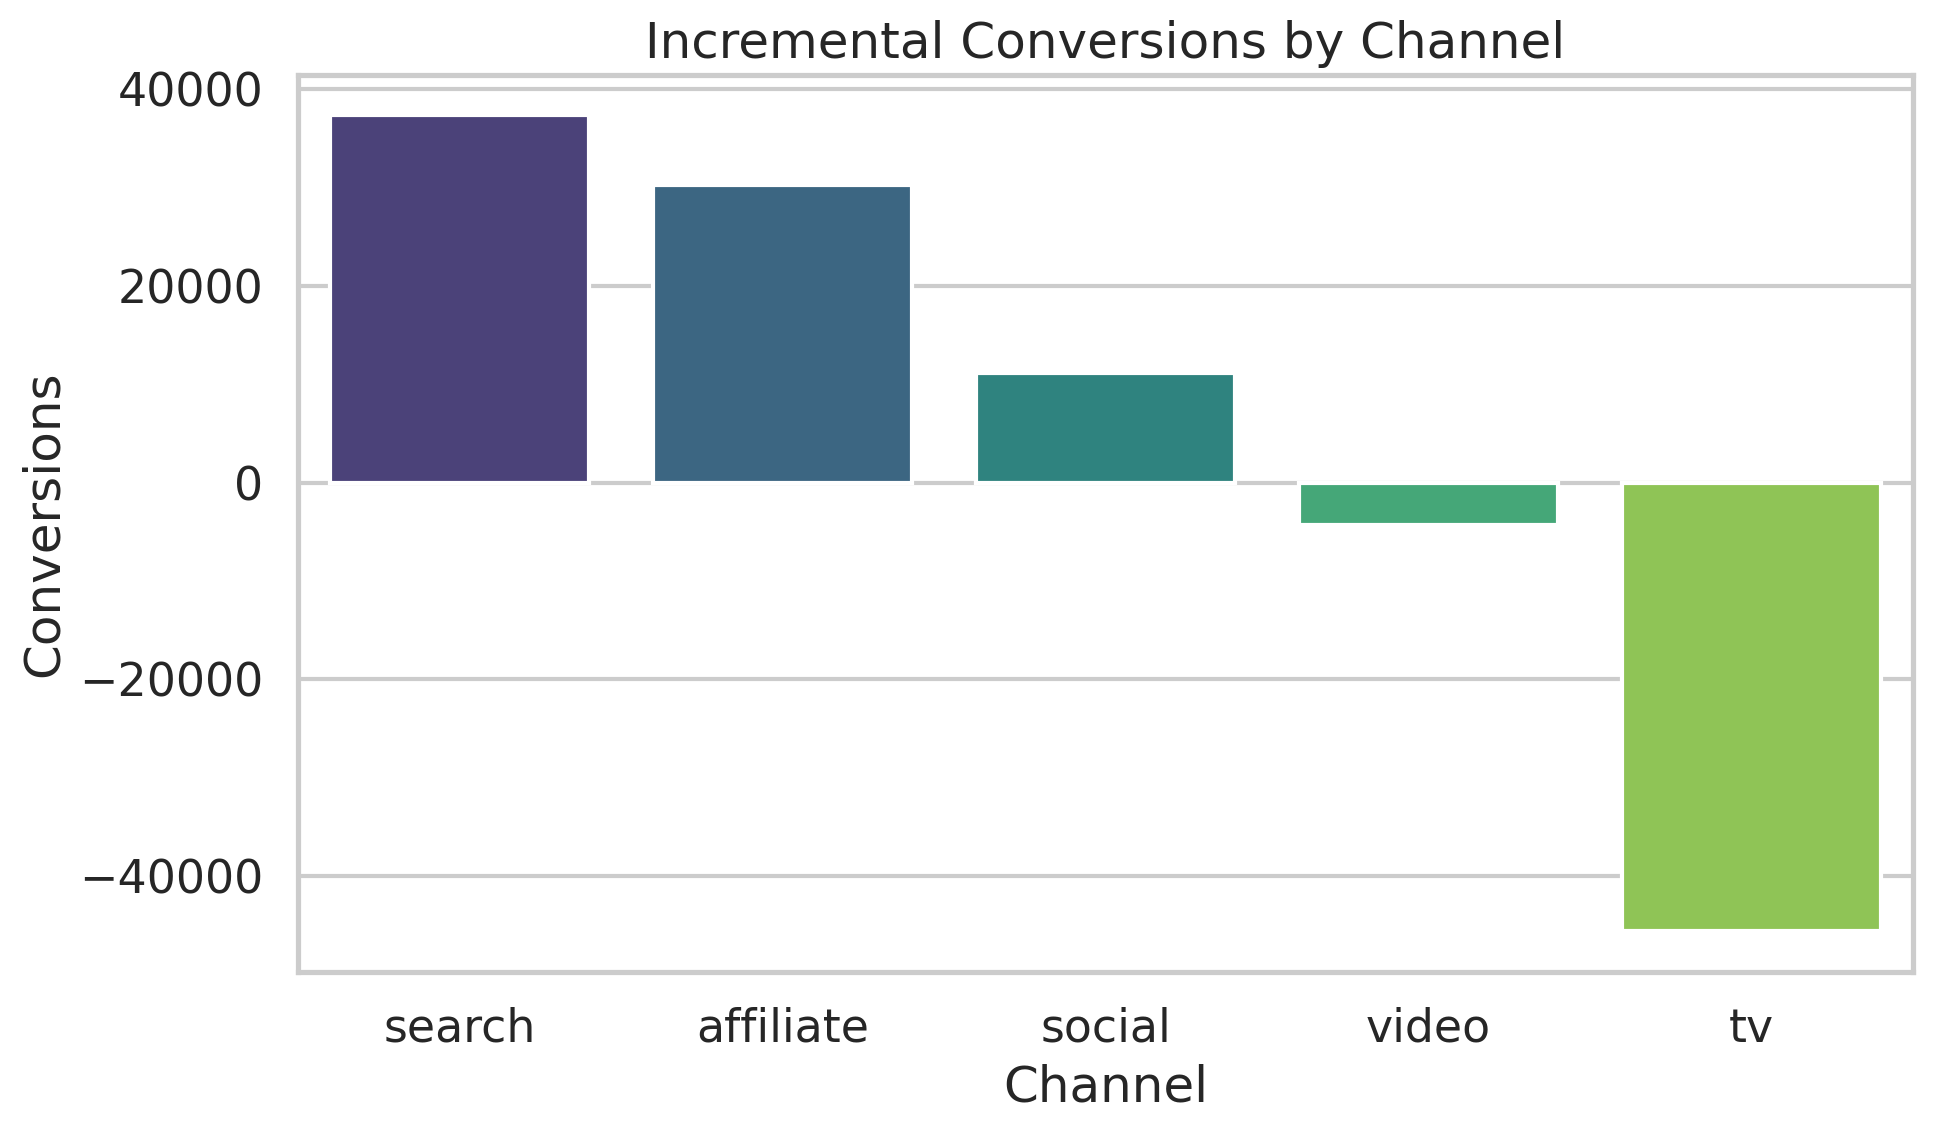
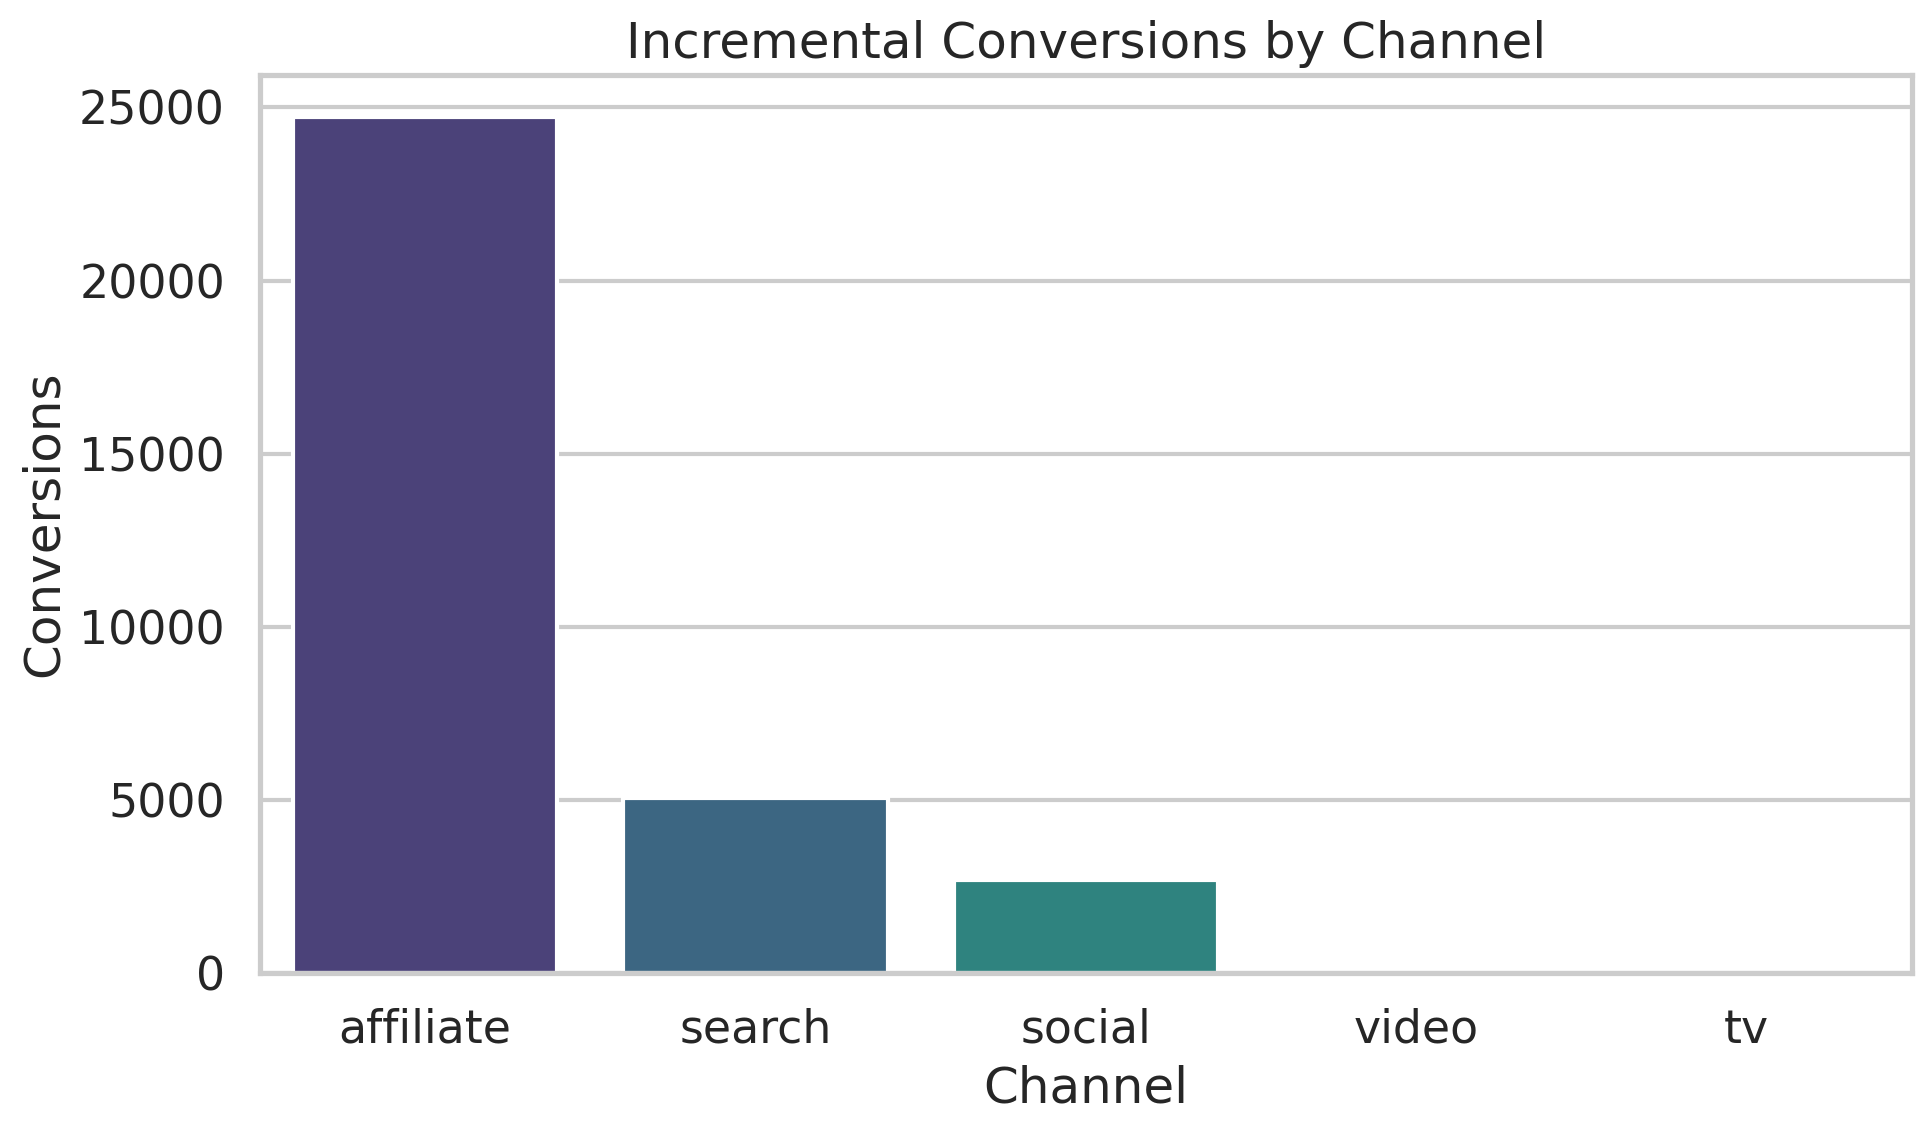
Constrain media effects to non-negative with intercept; regenerate metrics and sync report narrative

diff --git a/src/mmm_pipeline.py b/src/mmm_pipeline.py
@@ -10,6 +10,7 @@ import matplotlib.pyplot as plt
 import numpy as np
 import pandas as pd
 import seaborn as sns
+from scipy.optimize import lsq_linear
 
 DATA_PATH = Path("data/synthetic_meridian_mmm.csv")
 FIG_DIR = Path("reports/figures")
@@ -68,14 +69,17 @@ def build_feature_matrix(df: pd.DataFrame) -> pd.DataFrame:
     controls["price_index"] = controls["price_index"] - controls["price_index"].mean()
     for col in controls.columns:
         features[col] = controls[col].to_numpy()
+    features["intercept"] = np.ones(len(df))
     return pd.DataFrame(features, index=df.index)
 
 
 def solve_regression(features: pd.DataFrame, target: pd.Series) -> np.ndarray:
     X = features.values
     y = target.values
-    coeffs, *_ = np.linalg.lstsq(X, y, rcond=None)
-    return coeffs
+    media_cols = {f"{c}_effect" for c in CHANNELS}
+    lb = np.array([0.0 if col in media_cols else -np.inf for col in features.columns])
+    ub = np.full(X.shape[1], np.inf)
+    return lsq_linear(X, y, bounds=(lb, ub)).x  # media effects constrained >= 0
 
 
 def summarize_channels(coeffs: np.ndarray, features: pd.DataFrame, df: pd.DataFrame) -> pd.DataFrame:

diff --git a/reports/executive_summary.md b/reports/executive_summary.md
@@ -5,30 +5,29 @@
 
 ## Bottom line
 This portfolio piece tells a simple story:
-- the deterministic pipeline fits the synthetic dataset cleanly (**2% MAPE**)
-- **Affiliate** is the clearest scale opportunity (**4.75x modeled ROI**)
-- **Search** remains worth defending (**1.41x ROI**)
-- **TV** and **Video** look over-allocated in the current mix and should be challenged, not protected by habit
+- the deterministic pipeline fits the synthetic dataset cleanly (**~2% MAPE**)
+- **Affiliate** is the clearest scale opportunity (**~3.88x modeled ROI**, roughly 24.7k incremental conversions)
+- **Search** and **Social** contribute, but modestly (**~0.19x ROI** each)
+- **TV** and **Video** show **no measurable incremental lift in this model** — their budgets should be challenged before funding, not protected by habit
 
 That is the kind of output a marketing lead can actually do something with.
 
 ## What a stakeholder should take away
 1. **Scale the obvious winner.** Affiliate is delivering the strongest modeled return on the smallest weekly spend base.
-2. **Protect demand capture.** Search is still productive and should remain part of the core mix.
-3. **Pressure-test upper funnel spend.** TV and Video are not earning blind confidence in this scenario.
+2. **Keep demand capture honest.** Search still contributes, but at a modest modeled return, so it should be monitored rather than blindly defended.
+3. **Pressure-test upper funnel spend.** TV and Video show no measurable incremental lift in this model and are not earning blind confidence in this scenario.
 4. **Use Meridian as the serious next step.** The repo already proves the official package runs on the same dataset, so the path to a fuller Bayesian workflow is real rather than hypothetical.
 
 ## Headline metrics
-- **Model fit:** 2% MAPE
-- **Best ROI:** Affiliate at ~4.75x
-- **Second-best ROI:** Search at ~1.41x
-- **Borderline positive:** Social at ~0.79x
-- **Underperformers:** Video at ~-0.26x, TV at ~-1.51x
+- **Model fit:** ~2% MAPE
+- **Best ROI:** Affiliate at ~3.88x (~24.7k incremental conversions)
+- **Modest contributors:** Search at ~0.19x, Social at ~0.19x
+- **No measurable lift:** Video at 0.00x, TV at 0.00x once media effects are constrained non-negative
 
 ## Recommended actions
 - Increase Affiliate budget in controlled increments and monitor marginal ROI rather than assuming linear scale.
-- Protect Search budget unless new evidence shows intent capture weakening.
-- Reallocate a test tranche of TV/Video spend into higher-intent channels before approving more top-of-funnel budget.
+- Hold Search and Social budgets steady and watch marginal returns, since their modeled ROI is modest rather than compelling.
+- Challenge TV and Video before funding: they show no measurable incremental lift in this model, so reallocate a test tranche into higher-performing channels before approving more top-of-funnel budget.
 - Upgrade the workflow from synthetic demo data to a live weekly feed so the same structure can support real planning.
 
 ## Why this artifact is credible

diff --git a/reports/methodology_and_insights.md b/reports/methodology_and_insights.md
@@ -23,7 +23,7 @@ Implemented in `src/mmm_pipeline.py`.
 What it does:
 - adstock transformation by channel
 - saturation/response-curve transformation
-- regression-based decomposition into channel contributions
+- regression-based decomposition into channel contributions, with **non-negative media coefficients and an intercept** (a more honest baseline than the earlier unconstrained OLS, and closer to how real MMM priors treat media)
 - ROI summary by channel
 - chart generation and JSON metric export
 
@@ -60,23 +60,25 @@ This is not two half-finished solutions. It is one sensible portfolio architectu
 Together, they answer the useful question: can this person produce a clear MMM-style recommendation flow **and** use a real Bayesian framework without turning the project into sludge?
 
 ## Main business insights from the deterministic run
+The model now fits with **non-negative media coefficients plus an intercept**, which prevents the unconstrained-OLS artifact of media channels "explaining" conversions with implausible negative effects.
+
 1. **Affiliate has the strongest headroom.**
-   - ~30k incremental conversions
-   - ~4.75x modeled ROI
+   - ~24.7k incremental conversions
+   - ~3.88x modeled ROI
    - low weekly base spend makes scaling tests look justified
 
-2. **Search is still worth protecting.**
-   - ~37k incremental conversions
-   - ~1.41x modeled ROI
-   - fits the classic demand-capture pattern: not glamorous, still valuable
+2. **Search contributes, but modestly.**
+   - ~5.1k incremental conversions
+   - ~0.19x modeled ROI
+   - demand capture is present in the fit, just not the dominant driver of this synthetic outcome
 
-3. **Social is positive, but not a star.**
-   - ~0.79x modeled ROI
+3. **Social sits in the same modest band.**
+   - ~0.19x modeled ROI
    - potentially maintainable, but not the first place to look for aggressive growth
 
-4. **TV and Video look bloated in the current mix.**
-   - both show negative modeled contribution in this synthetic setup
-   - that usually points to saturation, weak creative, poor timing, overlap, or simple over-allocation
+4. **TV and Video show no measurable positive incremental effect.**
+   - the constrained fit pins both coefficients at zero (0.00x ROI)
+   - in the earlier unconstrained OLS they appeared as artificial negatives; the honest reading is "no detectable lift in this model," which usually points to saturation, weak creative, poor timing, overlap, or simple over-allocation
 
 5. **Controls matter.**
    - seasonality, promos, and organic activity all explain part of the outcome variation

diff --git a/README.md b/README.md
@@ -79,8 +79,10 @@ The default experience is intentionally light. The posterior run is optional bec
 - machine-readable metrics in `reports/metrics.json`
 
 Observed result on the bundled dataset:
-- **MAPE:** 0.02
-- **Top ROI channels:** Affiliate, Search, Social
+- **MAPE:** ~0.02
+- **Top ROI channels:** Affiliate (~3.88x), then Search and Social (both modest at ~0.19x)
+
+The pipeline constrains media effects to be non-negative and includes an intercept, mirroring how real MMM tooling (including Meridian's priors) treats media contributions.
 
 ### 2) Official Meridian runtime check
 `src/meridian_smoke_test.py` successfully:
@@ -111,10 +113,10 @@ Because portfolio projects should be honest and pleasant to run.
 That split is intentional, not a compromise. It is the difference between a usable demo and a needlessly fragile science project.
 
 ## Business takeaway from the bundled run
-- **Affiliate** has the clearest scale headroom and the best modeled ROI at **4.75x**.
-- **Search** is still productive and worth protecting at about **1.41x** ROI.
-- **Social** is still positive, but not nearly as compelling as Affiliate or Search.
-- **TV** and **Video** look saturated or mis-specified in the current mix and should be tested or trimmed before more budget is thrown at them.
+- **Affiliate** is still the clear winner, with the best modeled ROI at **~3.88x**.
+- **Search** contributes, but modestly, at about **0.19x** ROI.
+- **Social** is in the same modest band as Search at about **0.19x** ROI.
+- **TV** and **Video** show **no measurable positive incremental effect** once media effects are constrained non-negative (in the earlier unconstrained fit they appeared as artificial negatives). Their budgets should be challenged before more is spent.
 
 ## Limits of this portfolio
 - The dataset is synthetic.

diff --git a/reports/meridian_runtime_check.md b/reports/meridian_runtime_check.md
@@ -9,8 +9,8 @@ python src/meridian_smoke_test.py --posterior
 ```
 
 ## Result
-- **Model build:** 0.41s
-- **Prior sample:** 0.24s
+- **Model build:** 0.36s
+- **Prior sample:** 0.23s
 - **Tiny posterior run:** 77.68s on CPU
 - **Dataset size:** 110 weekly observations
 - **Channels modeled:** Search, Social, Video, TV, Affiliate
